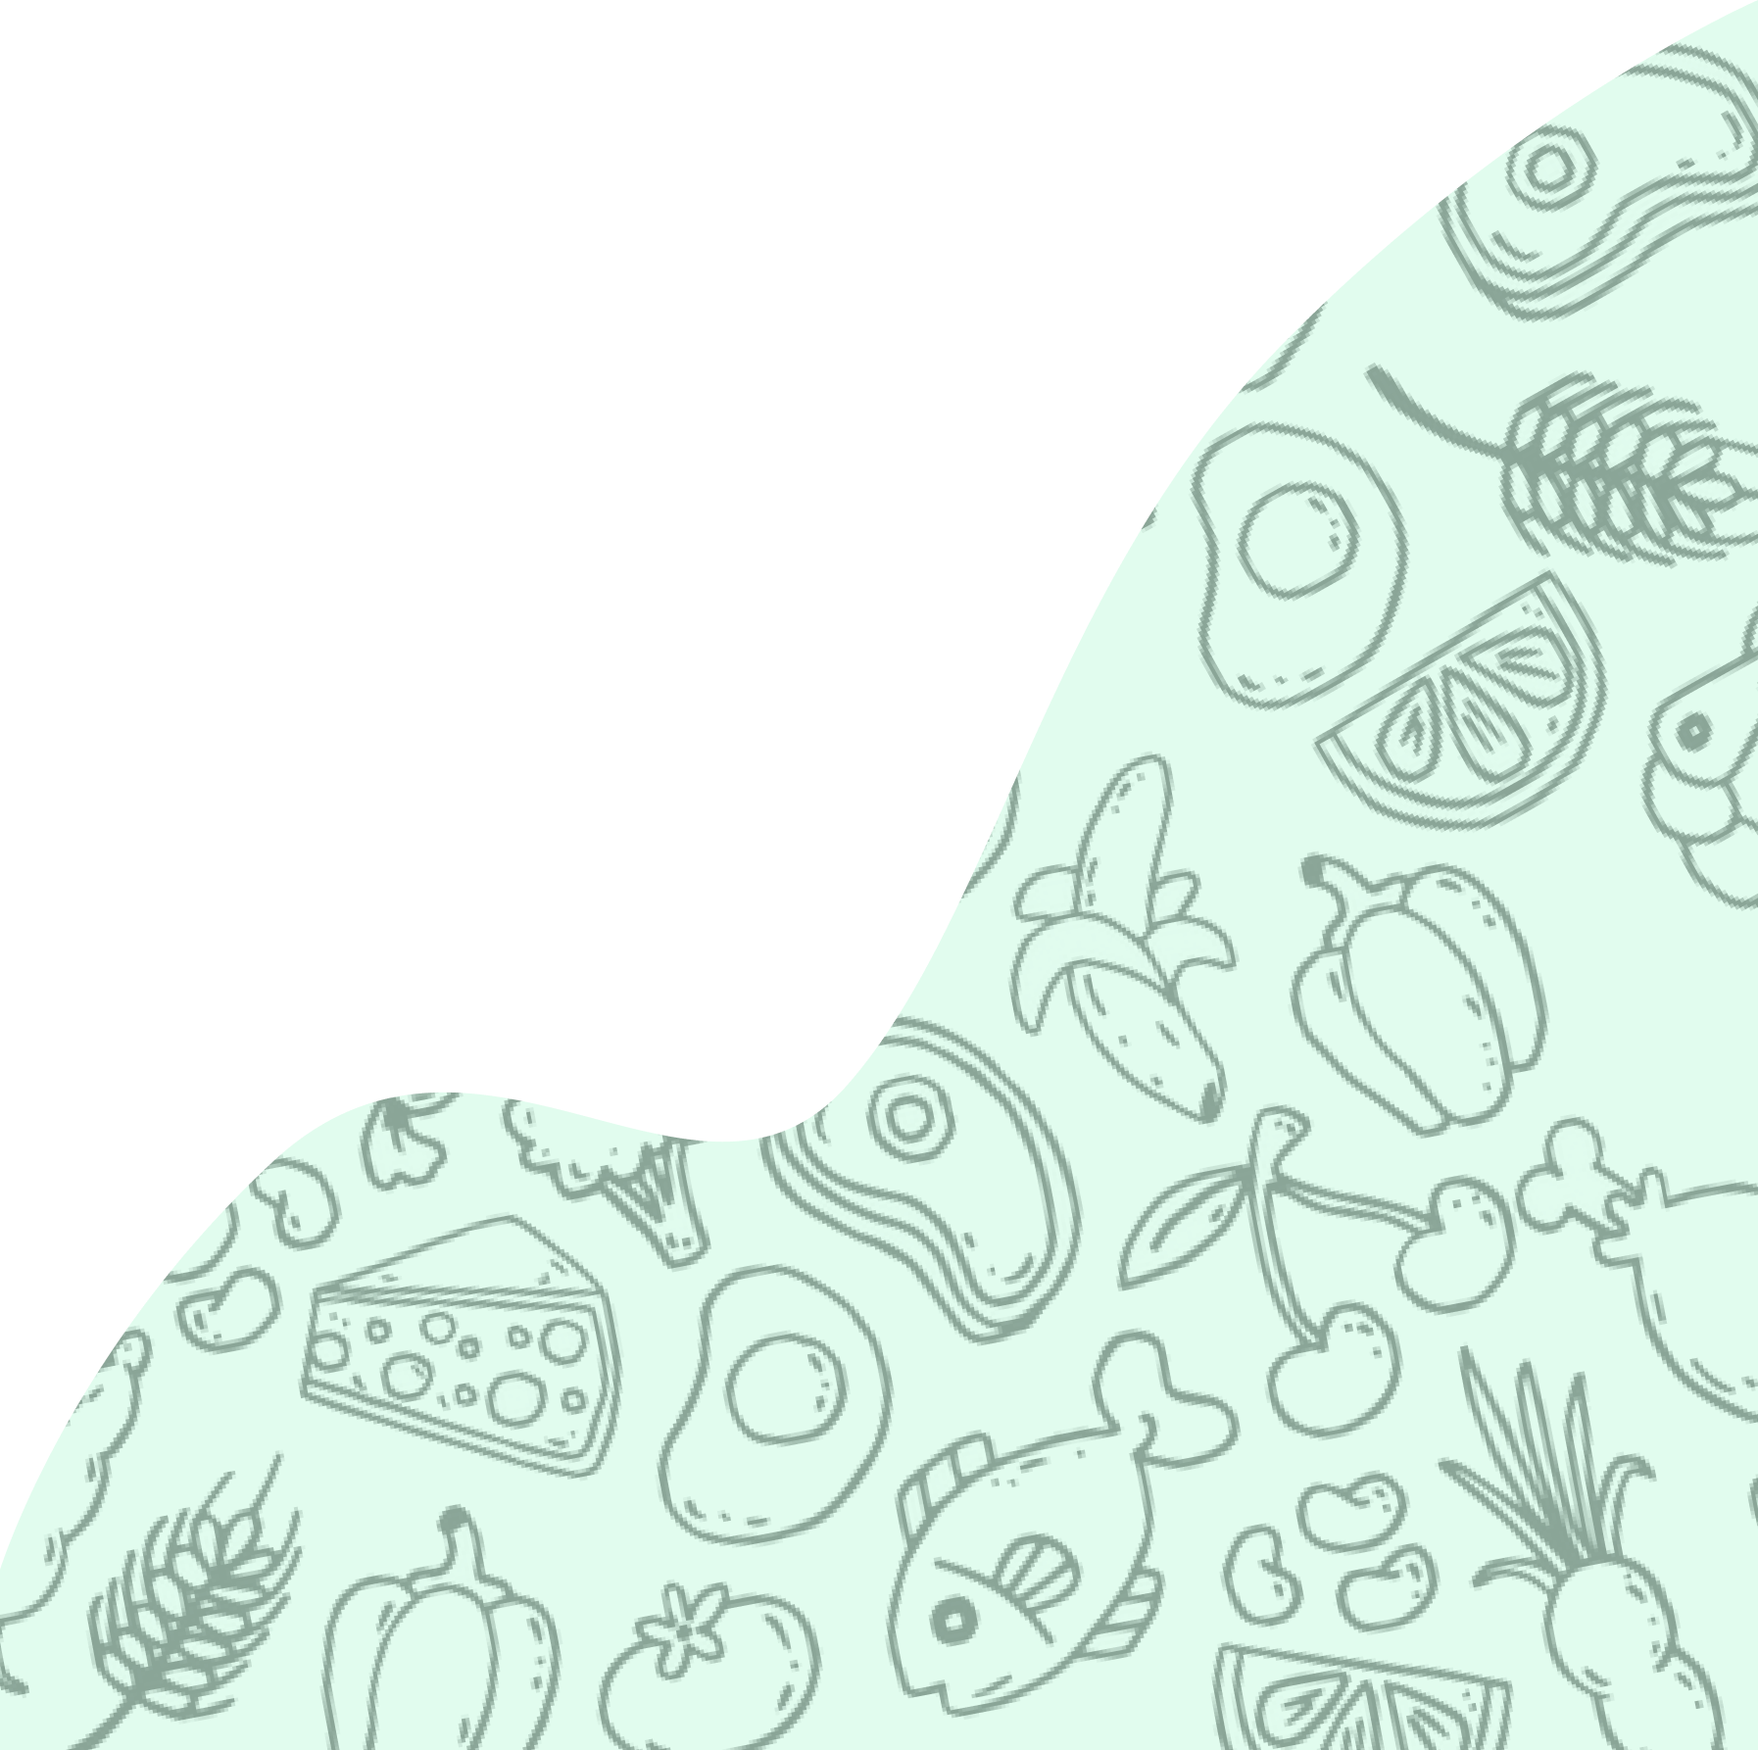
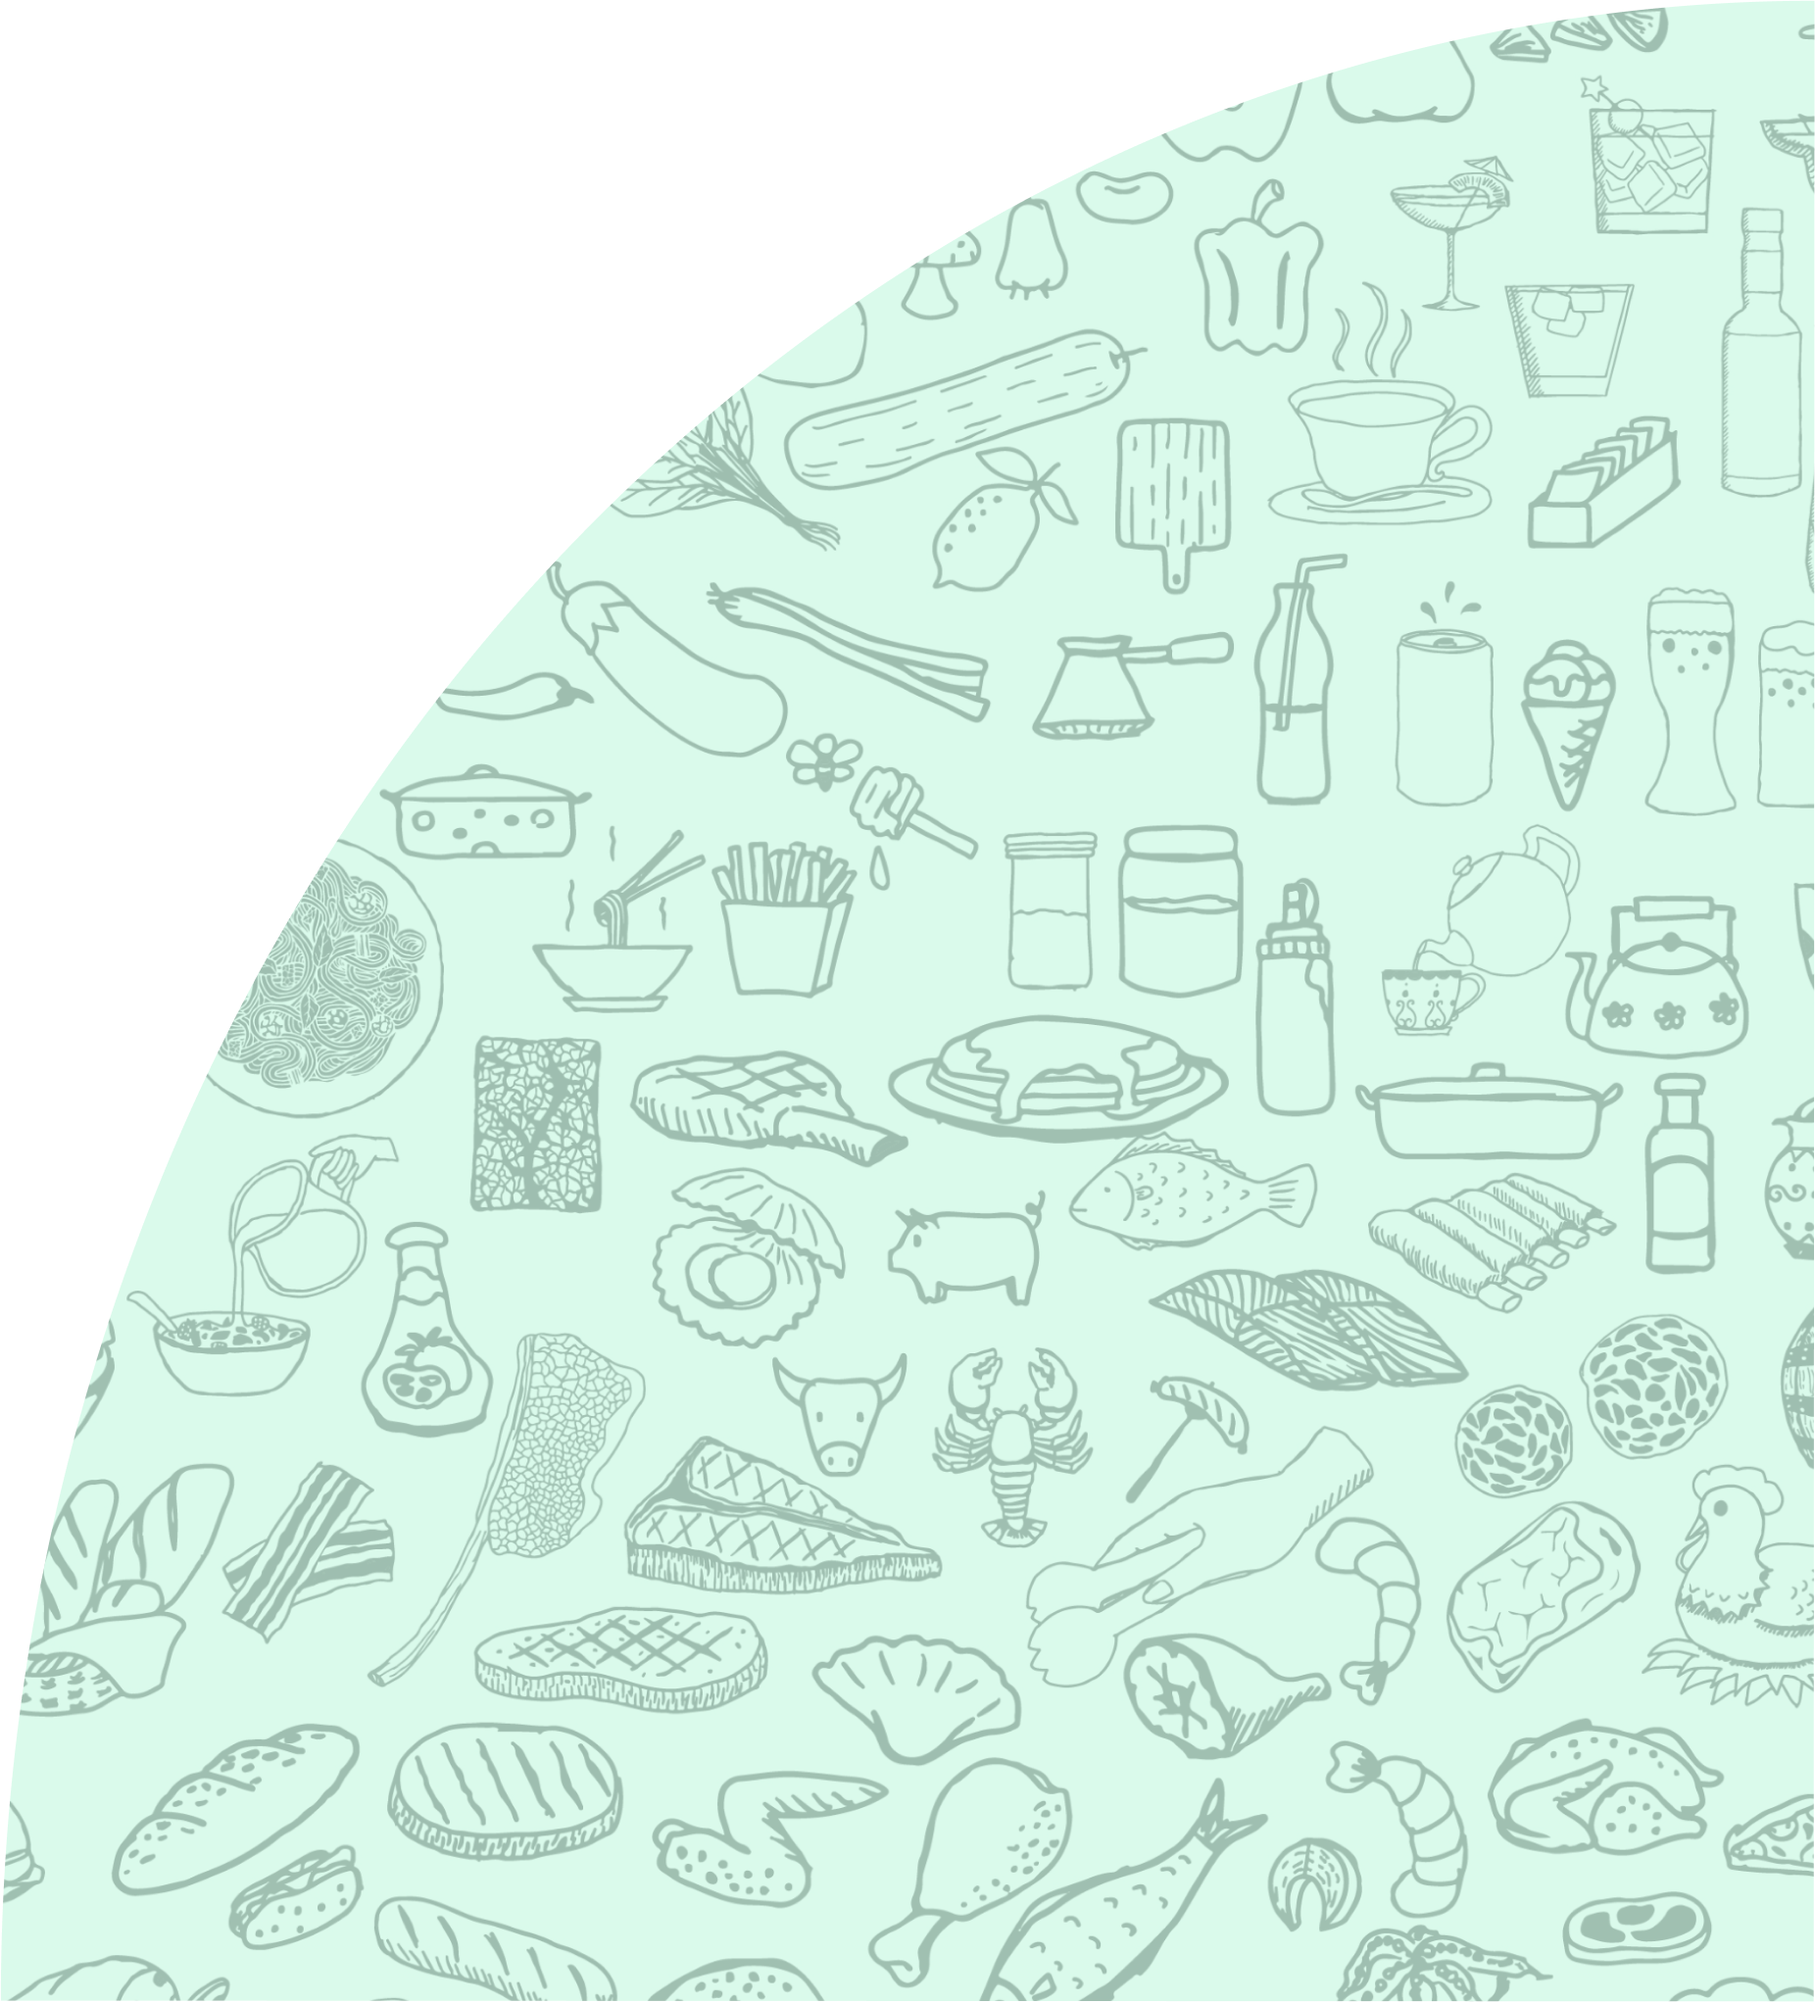
bg-image

diff --git a/src/components/layout.tsx/app-layout.tsx b/src/components/layout.tsx/app-layout.tsx
@@ -10,7 +10,7 @@ type Props = {
 export const AppLayout = ({ goBack, children, title }: Props) => {
 	return (
 		<div className="w-full max-w-[448px] bg-white mx-auto relative">
-			<div className="fixed top-0 left-[50%] translate-x-[-50%] w-full max-w-[448px] h-screen pointer-events-none bg-[url('/images/bg-vector.png')] bg-no-repeat bg-right-bottom bg-[length:100%_40%]"></div>
+			<div className="fixed top-0 left-[50%] translate-x-[-50%] w-full max-w-[448px] h-screen pointer-events-none bg-[url('/images/bg-vector.png')] bg-no-repeat bg-right-bottom bg-contain"></div>
 			<header className="sticky top-0 left-0 w-full z-50 bg-white">
 				<Navbar goBack={goBack} title={title} />
 				<Search />
